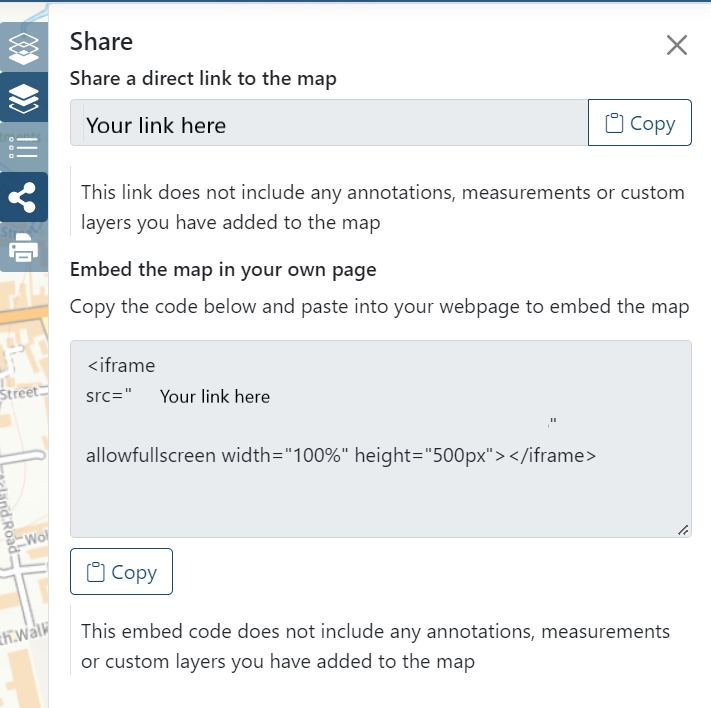
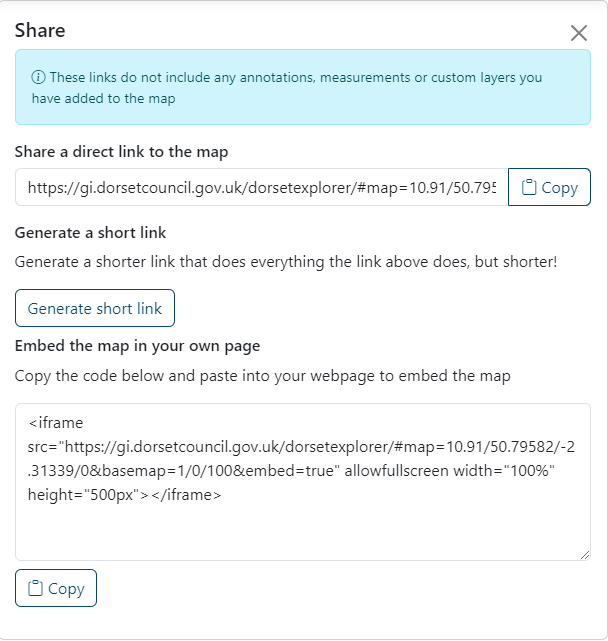
Add bookmarks section (#4)
* Fix styling issue

* Add bookmarks section

* Add short link info to share and minor updates

* Add short link info to sharing and other minor tweaks

* Fix type

---------

Changed region(s): [[0.0, 0.0, 1.0, 1.0], [0.9375, 0.468, 1.0, 0.8424]]

diff --git a/docs/bookmarks.md b/docs/bookmarks.md
@@ -1,0 +1,26 @@
+# Bookmarks
+
+!!! warning
+    This feature is only available if you are logged in
+
+Bookmarks allow you to save a location to go back to at any time. 
+
+## Creating bookmarks
+To create a bookmark of your current location, just click the bookmarks menu in the header, and click 'Bookmark this location'.
+
+![Add bookmark button](../assets/images/bookmarks-add-bookmark.png)
+
+You will be prompted to enter a name for your bookmark. The name must be unique and a maximum of 50 characters.
+
+!!! note
+    Bookmarks do not include the layers/basemaps you have switched on, rotation or annotations, they are just a centre point and a zoom
+
+## Using bookmarks
+
+To go to a bookmark, simply open the bookmark menu and click the name of the bookmark you want. Your map will be recentred on your bookmark. If the bookmark you clicked is outside of the bounds of the current basemap, such as if you clicked a bookmark you created in Norway but you have the UK OS base mapping on, you will not be able to go to the bookmark and will be warned.
+
+To delete a bookmark, just hit the bin icon next to your bookmark and confirm in the dialog box that pops up.
+
+![Delete bookmark button](../assets/images/bookmarks-delete-bookmark.png)
+
+You can't rename bookmarks, so the easiest thing to do is delete it and add it again with your new name.

diff --git a/docs/update-notes.md b/docs/update-notes.md
@@ -12,7 +12,7 @@ We've made a number of changes to DorsetExplorer from our old version (which we'
 - ✨ A redesigned layer control. The layer control is probably the most important part of DorsetExplorer, so we've given it a fresh lick of paint and added some additional functionality.
     - You can now choose to sort the folders alphabetically rather than by their default
     - The search is a bit friendlier and allows for basic spelling mistakes
-    - Layers now have a metadata available (via the 'i' button next to the name), so you can learn more about what a layer is and where it comes from
+    - Layers now have metadata available (via the 'i' button next to the name), so you can learn more about what a layer is and where it comes from
     - You can choose different styles for certain compatible layers
 - 📍 Add your own layers to the map. You can now add a GPX, KML, GeoJSON or IGC file simply by dragging and dropping it on to the map. You can also add layers from a number of external web services to further enhance your map
 - ✏ Editable annotations. You can now edit your annotations geometry and style after drawing them, and there are a bunch more styling options for them as well. The annotations toolbar is now on the left, instead of in its own panel on the right

diff --git a/docs/sharing-your-map.md b/docs/sharing-your-map.md
@@ -15,6 +15,11 @@ The easiest way is to copy and paste the URL in your browser address bar.
 
 Alternatively you can click on the Share icon on the righthand side of the page and copy your link from there.
 
+### Short links
+DorsetExplorer share links can be quite long, especially if you have a search result pin or alternative styles applied. You can generate a short link using the 'Generate short link' button. This will generate a link that will do exactly the same as the long link, but much shorter.
+
+![Sharing your link - short link button](../assets/images/sharing-a-link-short-link.png)
+
 ## Embed your map on a website
 If you want to embed a map on your own website, click on the Share button on the righthand side of the page, and copy the embed code ([find out more about embedding and iframes on the MDN website](https://developer.mozilla.org/en-US/docs/Web/HTML/Element/iframe)).
 

diff --git a/docs/searching.md b/docs/searching.md
@@ -6,10 +6,10 @@ DorsetExplorer has a powerful built in search to help you find any place on the 
 ## Basic searching
 You can search for many different things including:
 
-* addresses (using postcodes or partial addresses)
+* addresses for Dorset and the surrounding areas (using postcodes or partial addresses)
 * UPRNs (Unique Property Reference Number)
 * village and town names
-* roads
+* roads in Dorset
 * place names 
 * British National Grid coordinates (12 figure or alphanumeric)
 * latitude/longitude coordinates (decimal or degrees/minutes/seconds)
